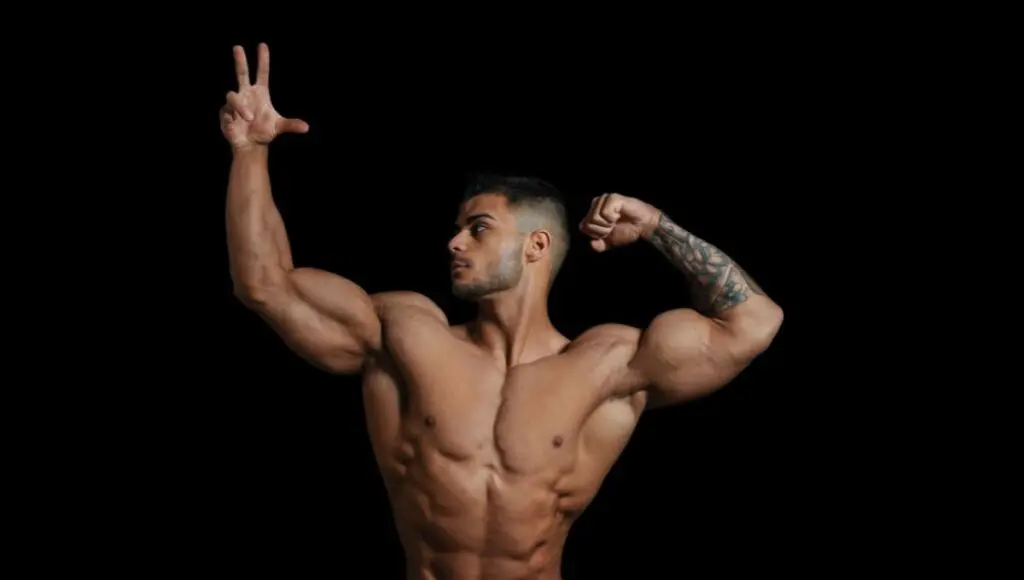
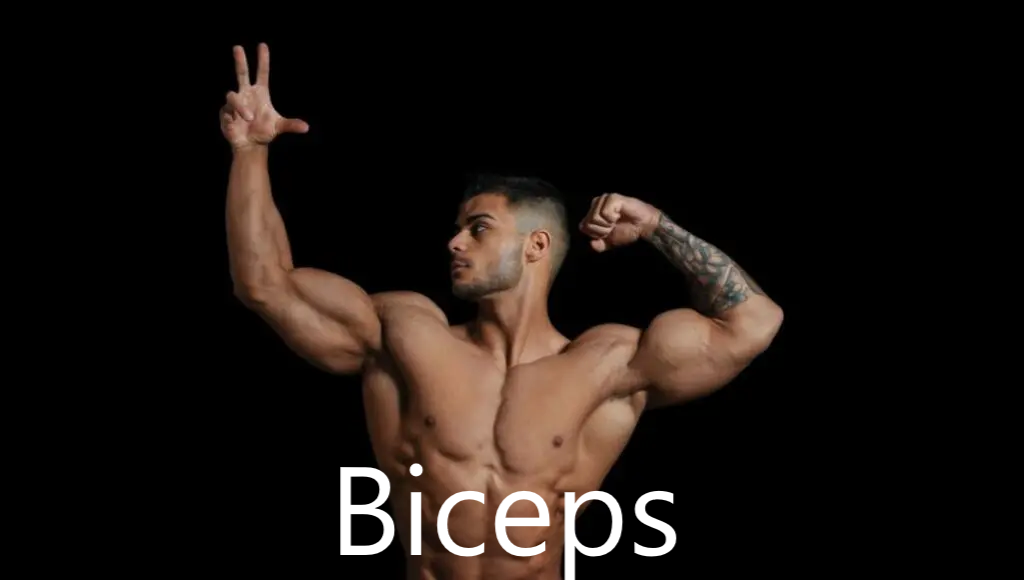
added text to the workout images

Changed region(s): [[0.3125, 0.8069, 0.6562, 1.0]]

diff --git a/App/pages/Choose_profile.js b/App/pages/Choose_profile.js
@@ -7,7 +7,7 @@ const image = require('.././images/background.png') ;
 const Choose_profile = ({navigation}) => {
     return (
       <View>
-        <Choose_Prof_button navigation={navigation} img={image} button_name={"Choose_Profile"}></Choose_Prof_button>
+        <Choose_Prof_button navigation={navigation} img={image} button_name={"Choose Profile"}></Choose_Prof_button>
       </View>
     )
   }
